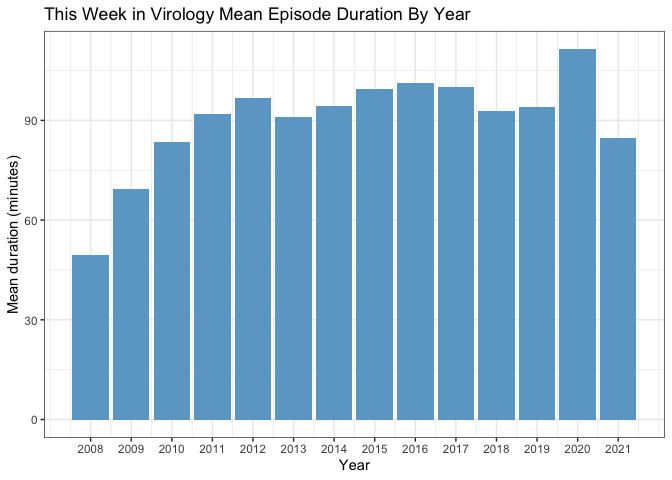
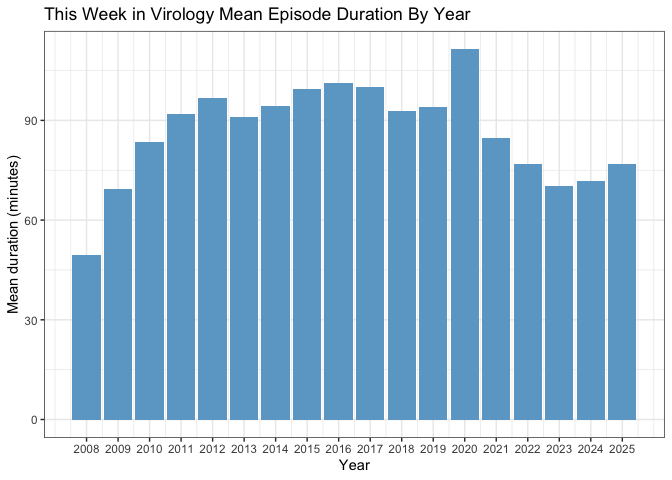
Latest knit, still works

Changed region(s): [[0.125, 0.0938, 0.9688, 0.875], [0.3125, 0.9062, 0.9375, 0.9688], [0.0938, 0.9062, 0.2812, 0.9688]]

diff --git a/podcasts/twiv/code/R/twiv.md b/podcasts/twiv/code/R/twiv.md
@@ -1,22 +1,21 @@
 Is TWiV getting longer?
 ================
 Neil Saunders
-compiled 2021-09-01 20:19:31
+compiled 2025-03-03 14:00:24.916758
 
--   [Introduction](#introduction)
--   [Get the XML](#get-the-xml)
--   [Make the data frame](#make-the-data-frame)
--   [Is TWiV getting longer?](#is-twiv-getting-longer)
-    -   [Scatter plot](#scatter-plot)
-    -   [Summarise by year](#summarise-by-year)
-    -   [Distribution of duration](#distribution-of-duration)
--   [Conclusions](#conclusions)
-    -   [This Week in Microbiology
-        (TWiM)](#this-week-in-microbiology-twim)
-    -   [This Week in Parasitism (TWiP)](#this-week-in-parasitism-twip)
--   [Other ways to analyse the feed
-    data](#other-ways-to-analyse-the-feed-data)
-    -   [Keywords](#keywords)
+- [Introduction](#introduction)
+- [Get the XML](#get-the-xml)
+- [Make the data frame](#make-the-data-frame)
+- [Is TWiV getting longer?](#is-twiv-getting-longer)
+  - [Scatter plot](#scatter-plot)
+  - [Summarise by year](#summarise-by-year)
+  - [Distribution of duration](#distribution-of-duration)
+- [Conclusions](#conclusions)
+  - [This Week in Microbiology (TWiM)](#this-week-in-microbiology-twim)
+  - [This Week in Parasitism (TWiP)](#this-week-in-parasitism-twip)
+- [Other ways to analyse the feed
+  data](#other-ways-to-analyse-the-feed-data)
+  - [Keywords](#keywords)
 
 # Introduction
 
@@ -35,18 +34,14 @@ the `item` nodes.
 There is sure to be a clever and elegant way to map straight into a data
 frame using *e.g.* `purrr`. This is not that way.
 
--   `pubDate` is converted to date-time
--   `enclosure length` (bytes) is converted to numeric values
--   `duration` is pre-pended with “00” where hours are absent, then
-    converted to seconds as numeric values
+- `pubDate` is converted to date-time
+- `enclosure length` (bytes) is converted to numeric values
+- `duration` is pre-pended with “00” where hours are absent, then
+  converted to seconds as numeric values
 
 The end result is a data frame with rows that look like this:
 
-``` {r-df-rows}
-twiv_df %>%
-  top_n(5, wt = pubDate) %>%
-  kable()
-```
+`{r-df-rows} twiv_df %>%   top_n(5, wt = pubDate) %>%   kable()`
 
 # Is TWiV getting longer?
 
